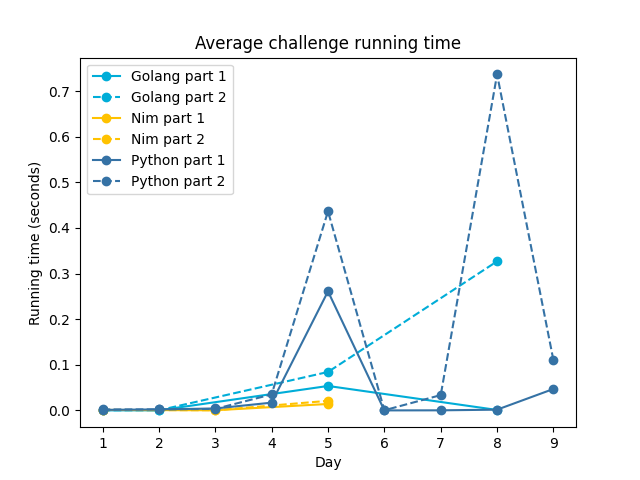
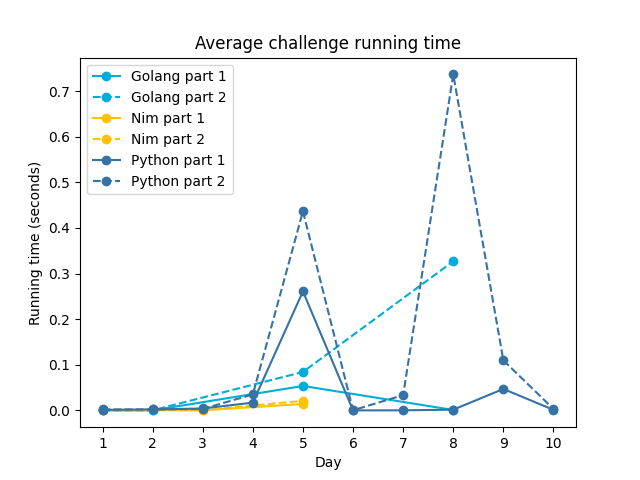
Add 2021-10 in Python

diff --git a/challenges/2021/10-syntaxScoring/py/__init__.py b/challenges/2021/10-syntaxScoring/py/__init__.py
@@ -1,0 +1,120 @@
+from typing import List, Optional, Tuple
+from aocpy import BaseChallenge
+from dataclasses import dataclass
+import math
+
+
+CHECKER_POINTS = {
+    ")": 3,
+    "]": 57,
+    "}": 1197,
+    ">": 25137,
+}
+
+AC_POINTS = {
+    ")": 1,
+    "]": 2,
+    "}": 3,
+    ">": 4,
+}
+
+
+@dataclass
+class Chunk:
+    text: str
+
+    def is_corrupted(self) -> Tuple[bool, Optional[str]]:
+        stack = []
+        for char in self.text:
+
+            if char == "(":
+                stack.append(")")
+            elif char == "[":
+                stack.append("]")
+            elif char == "{":
+                stack.append("}")
+            elif char == "<":
+                stack.append(">")
+            elif char == ")" or char == "]" or char == "}" or char == ">":
+                r = stack.pop()
+                if r != char:
+                    return True, char
+            else:
+                raise ValueError(f"unknown character in chunk string ({char=})")
+
+        return False, None
+
+    def complete(self) -> str:
+        stack = []
+        output = ""
+
+        n = 0
+        while True:
+
+            char = None 
+            if n < len(self.text):
+                char = self.text[n]
+
+            if len(stack) == 0 and char is None:
+                break
+
+            if char is None:
+                output += stack.pop()
+            elif char == "(":
+                stack.append(")")
+            elif char == "[":
+                stack.append("]")
+            elif char == "{":
+                stack.append("}")
+            elif char == "<":
+                stack.append(">")
+            elif char == ")" or char == "]" or char == "}" or char == ">":
+                r = stack.pop()
+                if r != char:
+                    raise ValueError(f"cannot correct corrupted chunk (wanted {r}, got {char})")
+            else:
+                raise ValueError(f"unknown character in chunk string ({char=})")
+
+            n += 1
+
+        return output
+
+
+def parse(instr: str) -> List[Chunk]:
+    return [Chunk(x) for x in instr.strip().splitlines()]
+
+
+class Challenge(BaseChallenge):
+
+    @staticmethod
+    def one(instr: str) -> int:
+        chunks = parse(instr)
+        score = 0
+        for chunk in chunks:
+            is_corrupted, illegal_character = chunk.is_corrupted()
+            if is_corrupted:
+                score += CHECKER_POINTS[illegal_character]
+        return score
+
+    @staticmethod
+    def two(instr: str) -> int:
+        chunks = parse(instr)
+
+        def f(x):
+            y, _ = x.is_corrupted()
+            return not y
+        
+        chunks = list(filter(f, chunks))
+        points = []
+        for chunk in chunks:
+            extra = chunk.complete()
+            n = 0
+            for char in extra:
+                n *= 5
+                n += AC_POINTS[char]
+            points.append(n)
+
+        points = list(sorted(points))
+        median = points[math.floor(len(points)/2)]
+
+        return median

diff --git a/challenges/2021/README.md b/challenges/2021/README.md
@@ -18,7 +18,8 @@ Solutions to the [2021 Advent of Code](https://adventofcode.com/2021).
 | 06 - Lanternfish                    | Complete           | [Python](06-lanternfish/py)                                                                             | At this rate, the mass of the fish would surpass that of the Earth pretty quickly.                                                  |
 | 07 - The Treachery of Whales        | Complete           | [Python](07-theTreacheryOfWhales/py)                                                                    | I'm not 100% sure my solution for part two is valid for all possible inputs.                                                        |
 | 08 - Seven Segment Search           | Complete           | [Python](08-sevenSegmentSearch/py), [Go](08-sevenSegmentSearch)                                         | I may have taken the easy way out for part two, but it does work! No-one ever said the smart solution is the best solution, anyway. |
-| 09 - Smoke Basin *                  | Complete           | [Python](09-smokeBasin/py)                                                                              | Schmokey! Also, as it turns out, I struggle to implement basic logic. Fun.                                                          |
+| 09 - Smoke Basin \*                 | Complete           | [Python](09-smokeBasin/py)                                                                              | Schmokey! Also, as it turns out, I struggle to implement basic logic. Fun.                                                          |
+| 10 - Syntax Scoring                 | Complete           | [Python](10-syntaxScoring/py)                                                                           | I can't say I've ever broken something so thoroughly that it has a syntax error on *every* line...                                  |
 
 <!-- PARSE END -->
 

diff --git a/challenges/2021/10-syntaxScoring/README.md b/challenges/2021/10-syntaxScoring/README.md
@@ -1,0 +1,2 @@
+# [Day 10: Syntax Scoring](https://adventofcode.com/2021/day/10)
+
